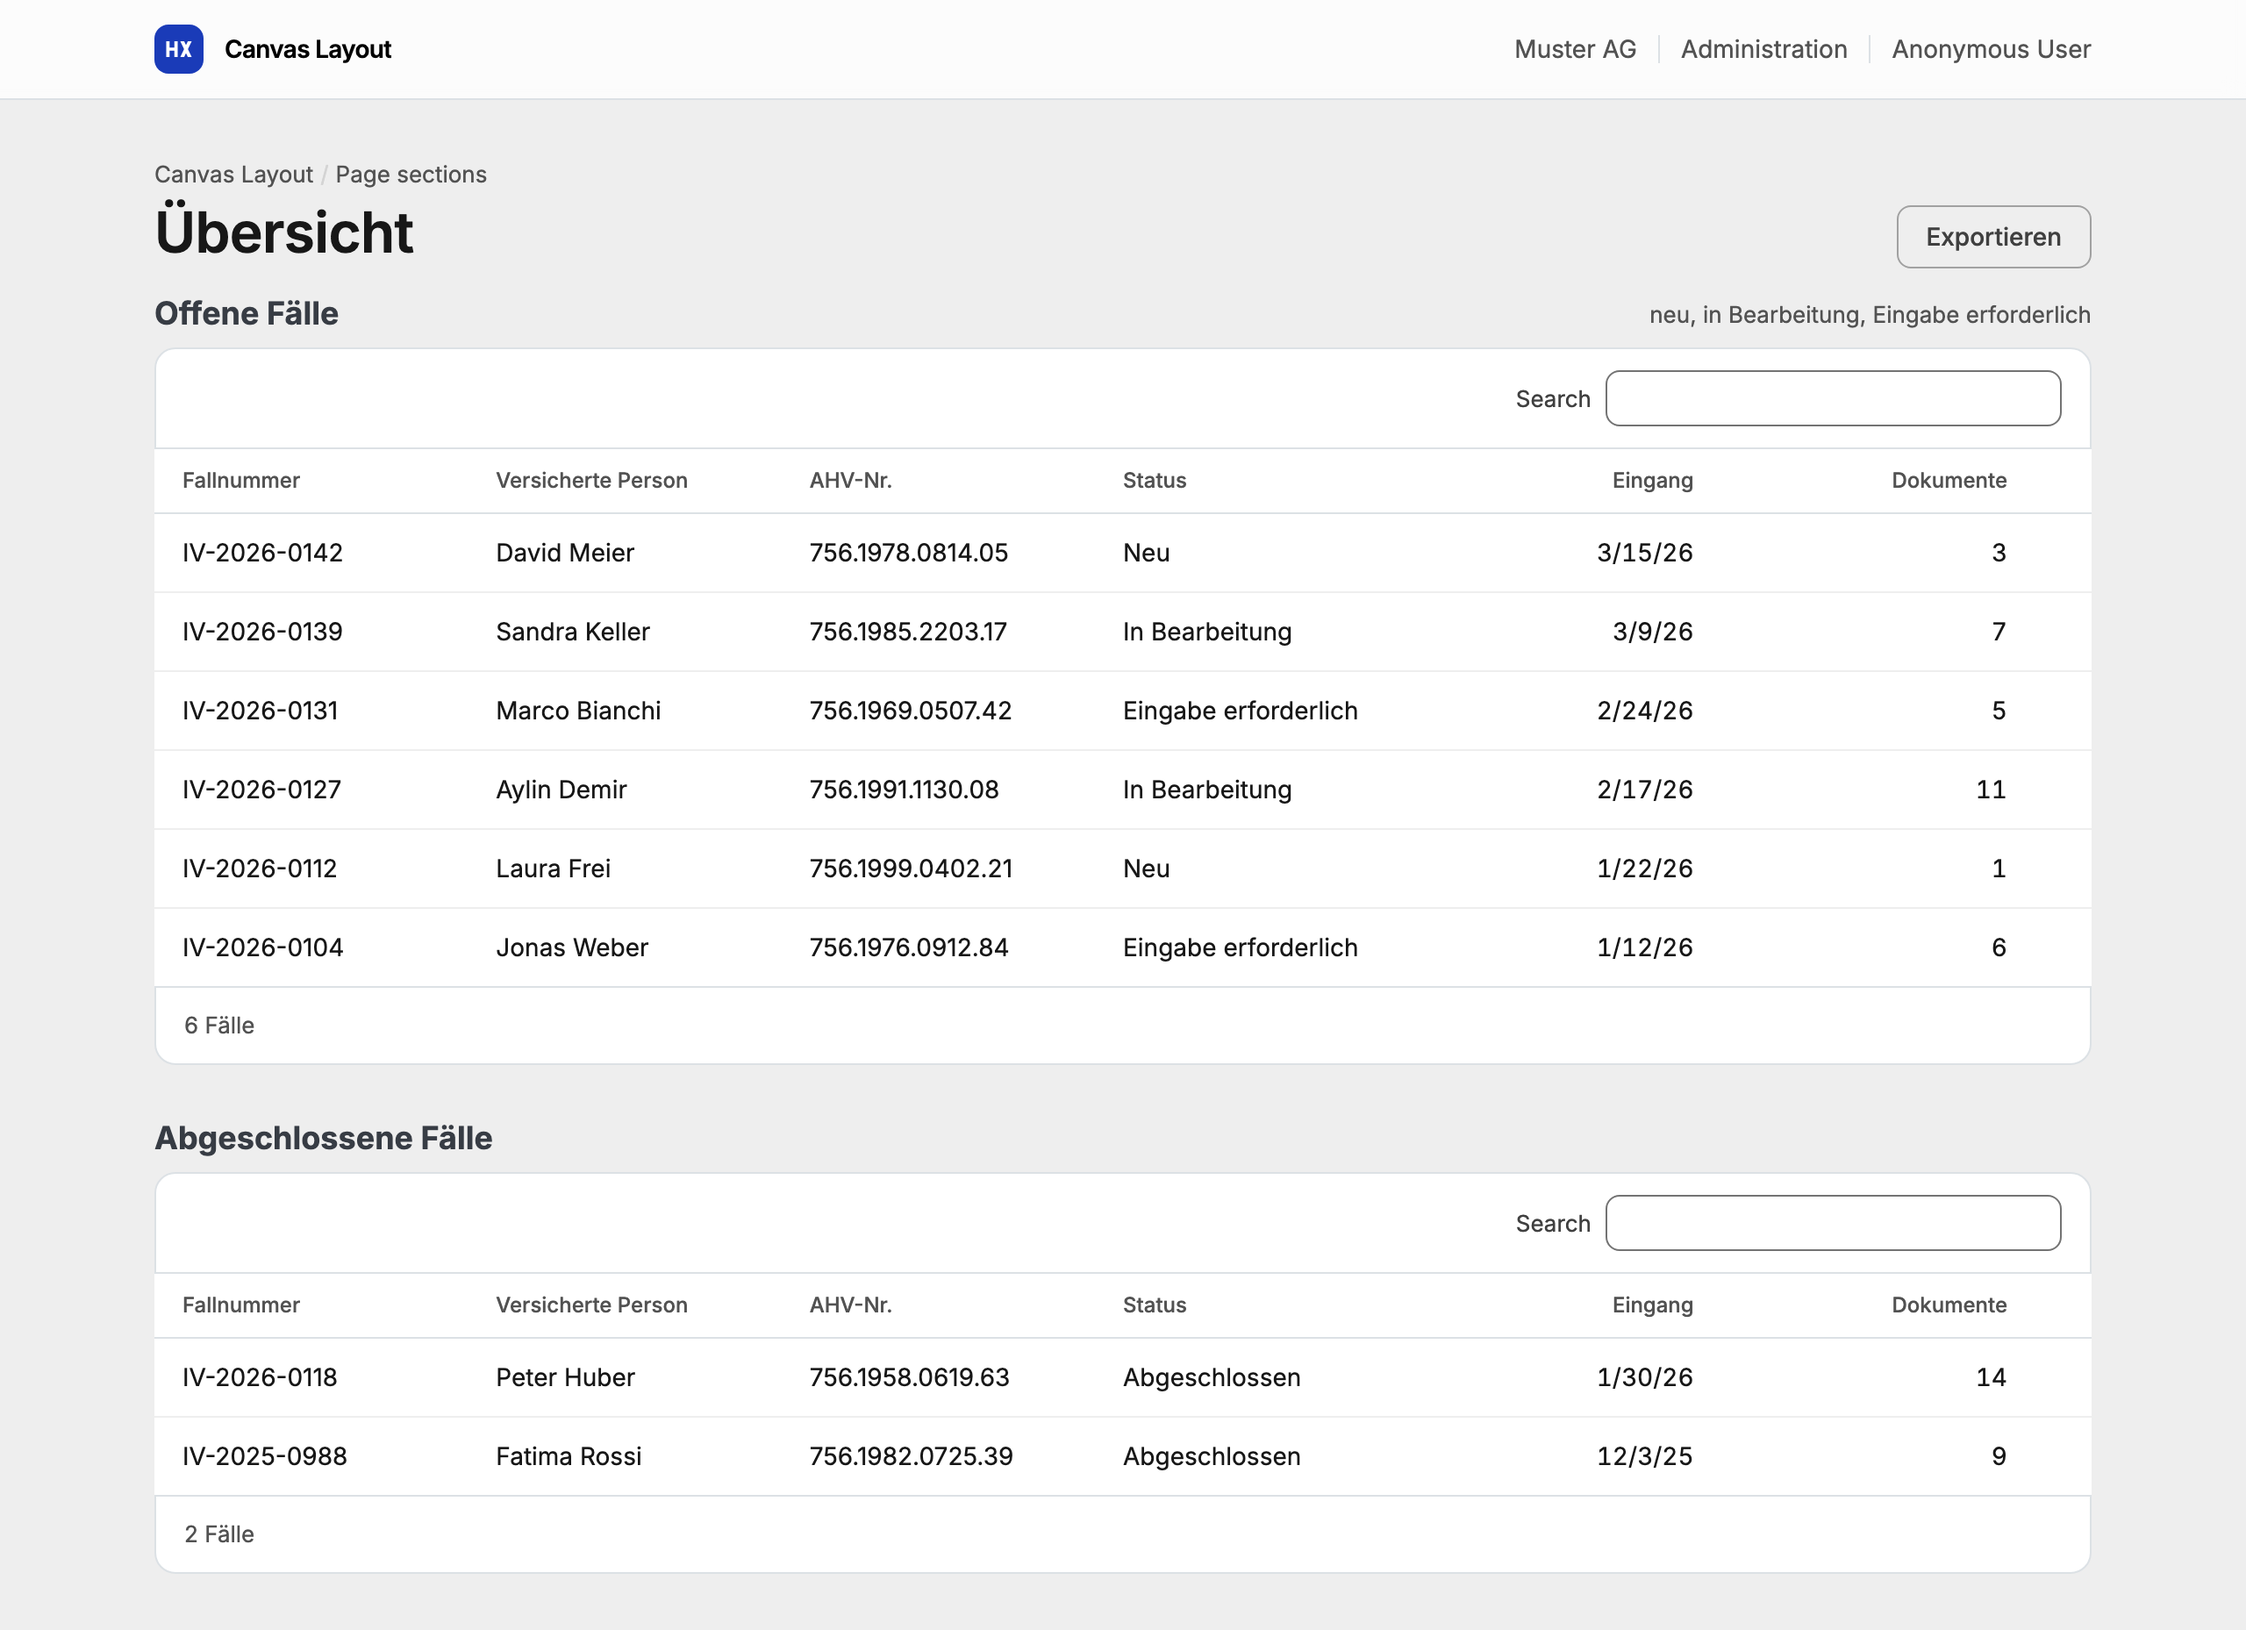
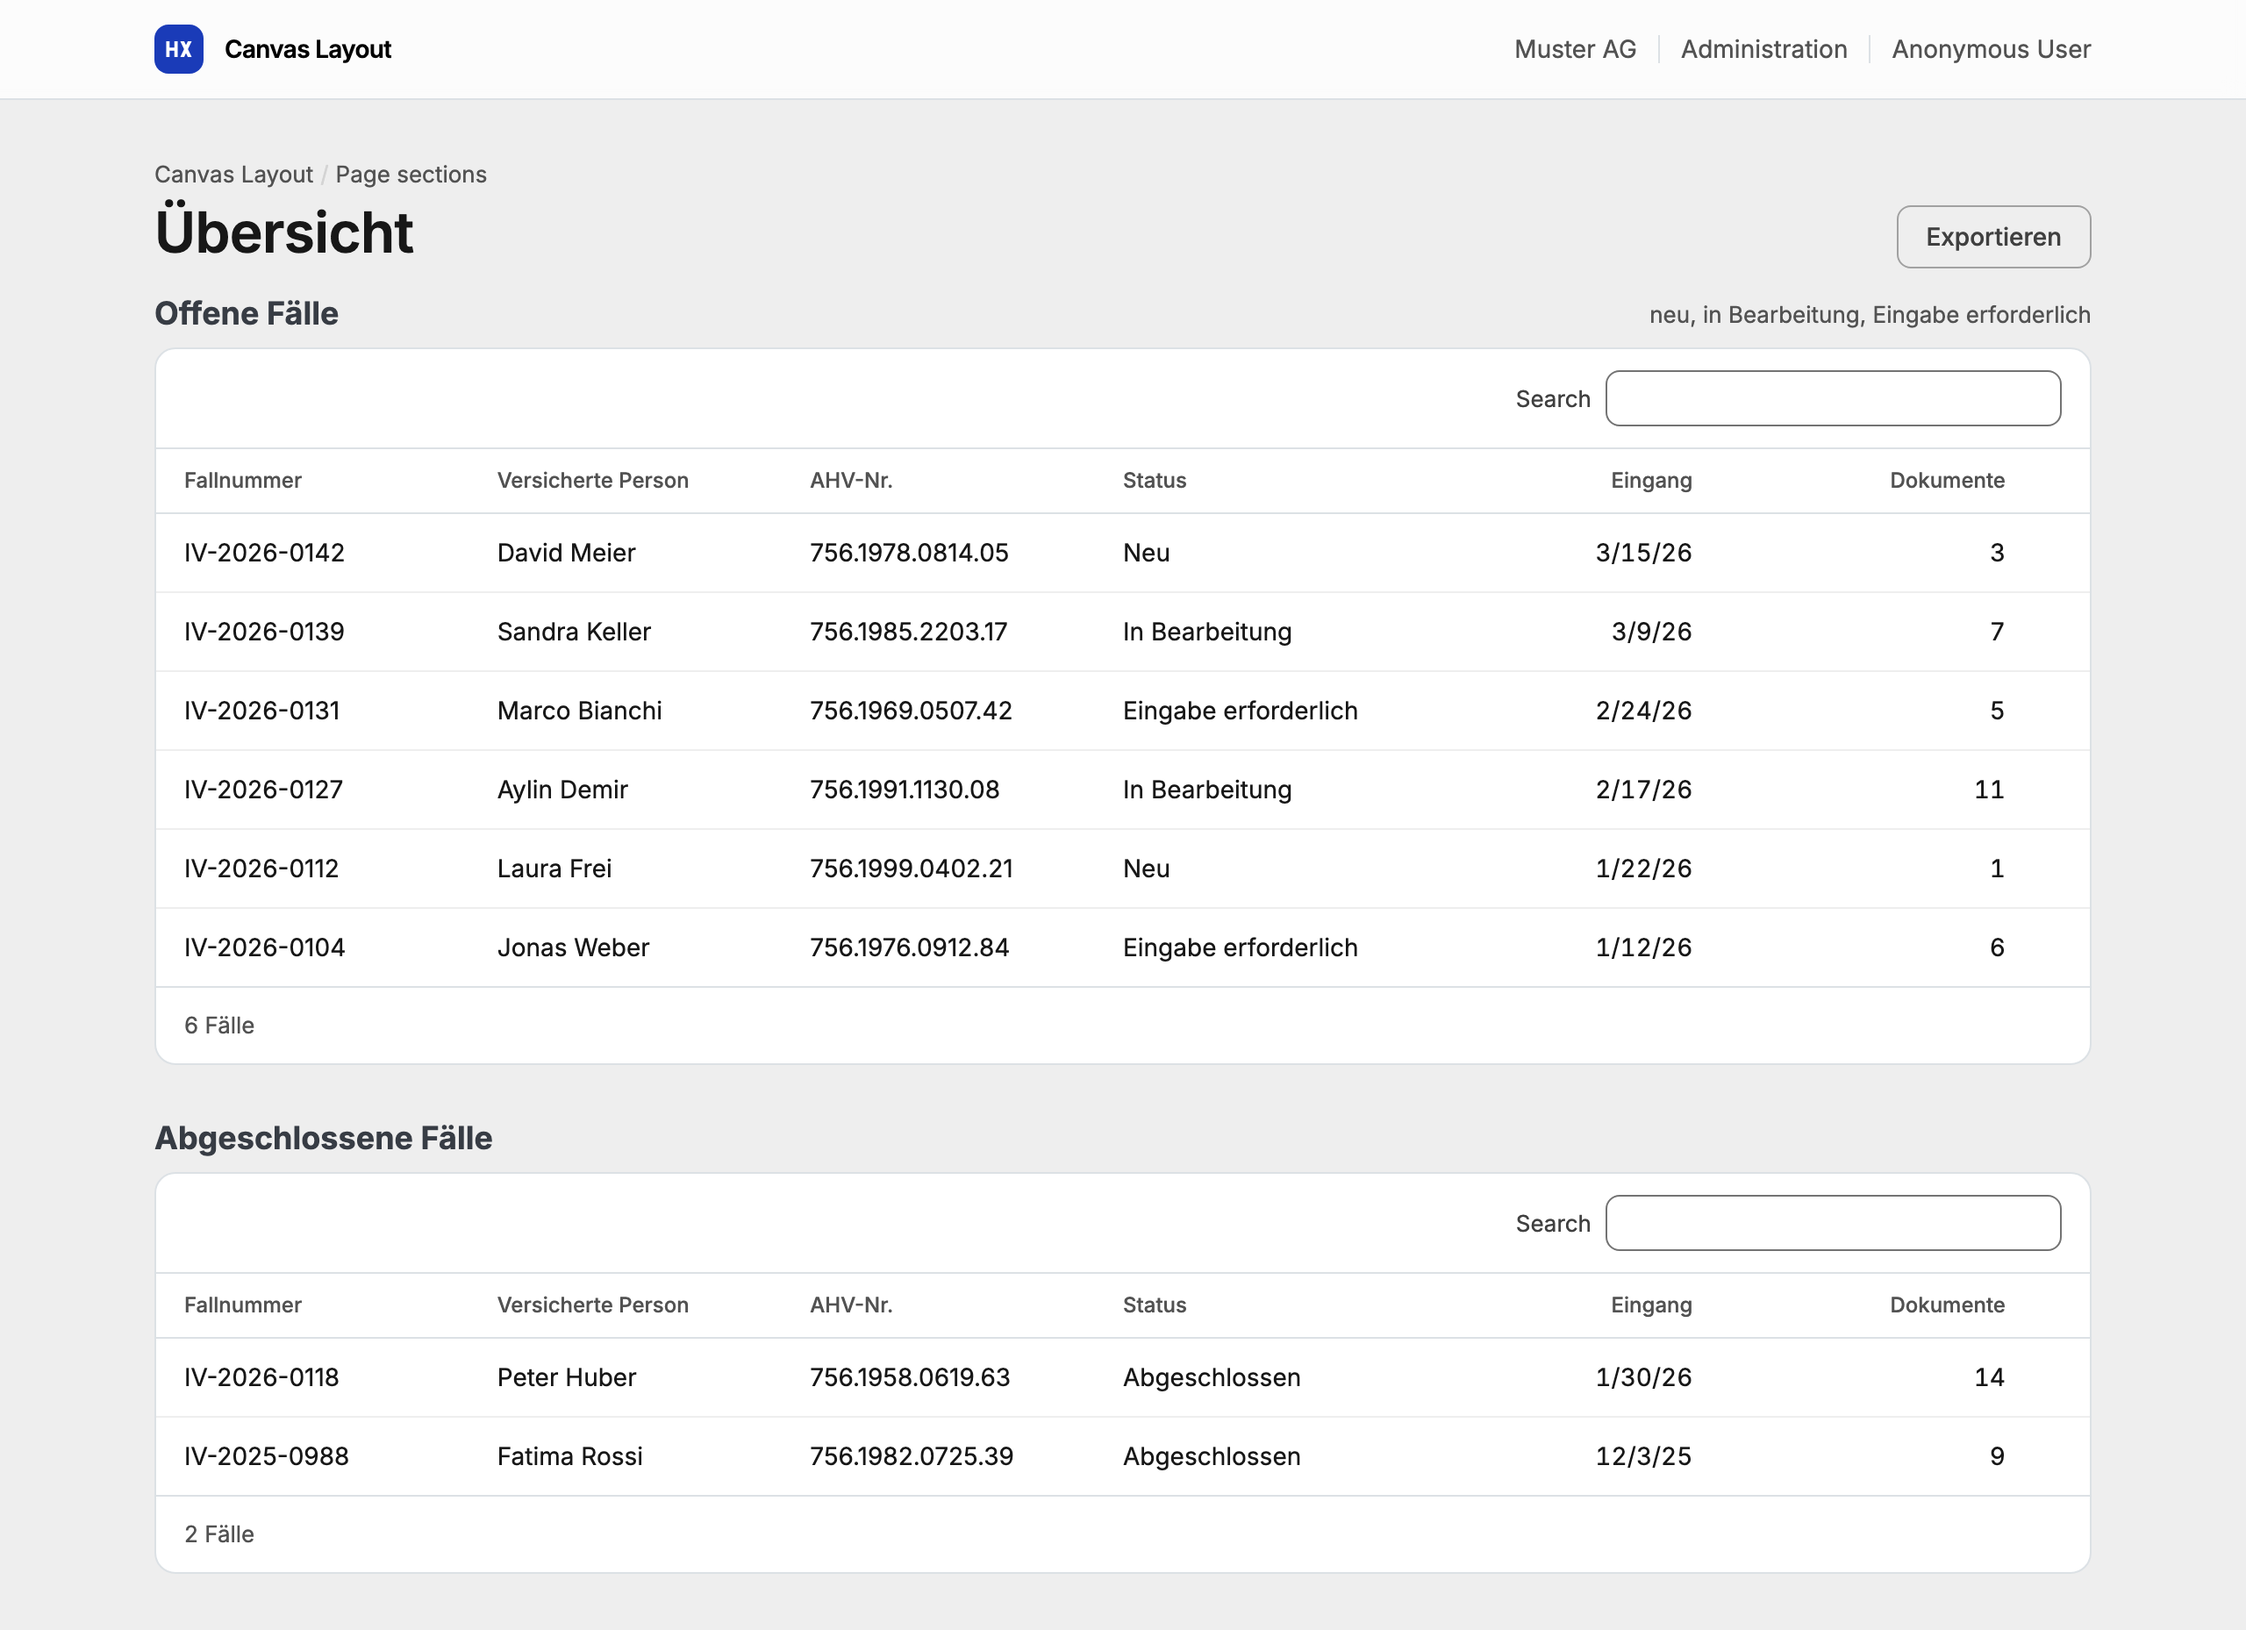
fix: card borders for section tables without a scroll container (T-016)

diff --git a/src/pyhx/static/css/page-templates/canvas-shell.css b/src/pyhx/static/css/page-templates/canvas-shell.css
@@ -164,7 +164,9 @@
             --table-card--radius: 0.75rem; /* 12px, as the draft; between radius-lg and -xl */
             --table-card--padding-inline: var(--hx-spacing-md);
 
-            .hx-table__scroll-container {
+            /* The card's body is the scroll container of a scrollable table
+               (as on a DataPage), or the table itself (T-016). */
+            & > :is(.hx-table__scroll-container, .hx-table) {
                 /* Box */
                 border: var(--hx-border-width-sm) solid var(--hx-color-neutral-200);
                 border-radius: var(--table-card--radius);
@@ -188,7 +190,7 @@
                     background-color: var(--hx-color-background);
                 }
 
-                .hx-table__scroll-container {
+                & > :is(.hx-table__scroll-container, .hx-table) {
                     /* Box */
                     border-top: 0;
                     border-radius: 0 0 var(--table-card--radius) var(--table-card--radius);
@@ -209,7 +211,7 @@
                     background-color: var(--hx-color-background);
                 }
 
-                .hx-table__scroll-container {
+                & > :is(.hx-table__scroll-container, .hx-table) {
                     /* Box */
                     border-bottom: 0;
                     border-end-start-radius: 0;

diff --git a/tests/samples/canvas_layout/test_page_sections.py b/tests/samples/canvas_layout/test_page_sections.py
@@ -25,4 +25,6 @@ class TestCanvasPageSections:
         section = (CSS / "pyhx" / "components" / "layout" / "page-section.css").read_text()
 
         assert ".hx-page-section__content > .hx-table__wrapper {" in shell
+        # Without scrollable=True there is no scroll container: the table itself is the card's body.
+        assert "& > :is(.hx-table__scroll-container, .hx-table) {" in shell
         assert '[data-hx-design="canvas"] .hx-page-section__header {' in section

diff --git a/changes/03--closed/T-016--canvas-page-sections/spec.md b/changes/03--closed/T-016--canvas-page-sections/spec.md
@@ -44,6 +44,7 @@ None.
 Implemented as specified.
 
 - **F1** `DataTable.render()` returns the `.hx-table__wrapper` itself, so the card rule matches a table passed directly as a section's `content`; a table wrapped in another element keeps the plain look.
+- **F2** The card's body was only the scroll container, which a `DataTable` has with `scrollable=True` (as a `DataPage` always passes); a table without it had borders on its search bar and footer but not beside its rows. The card's body is now the scroll container or, without one, the table itself (the developer's review of the sample).
 
 | Page | Before | After |
 | --- | --- | --- |
